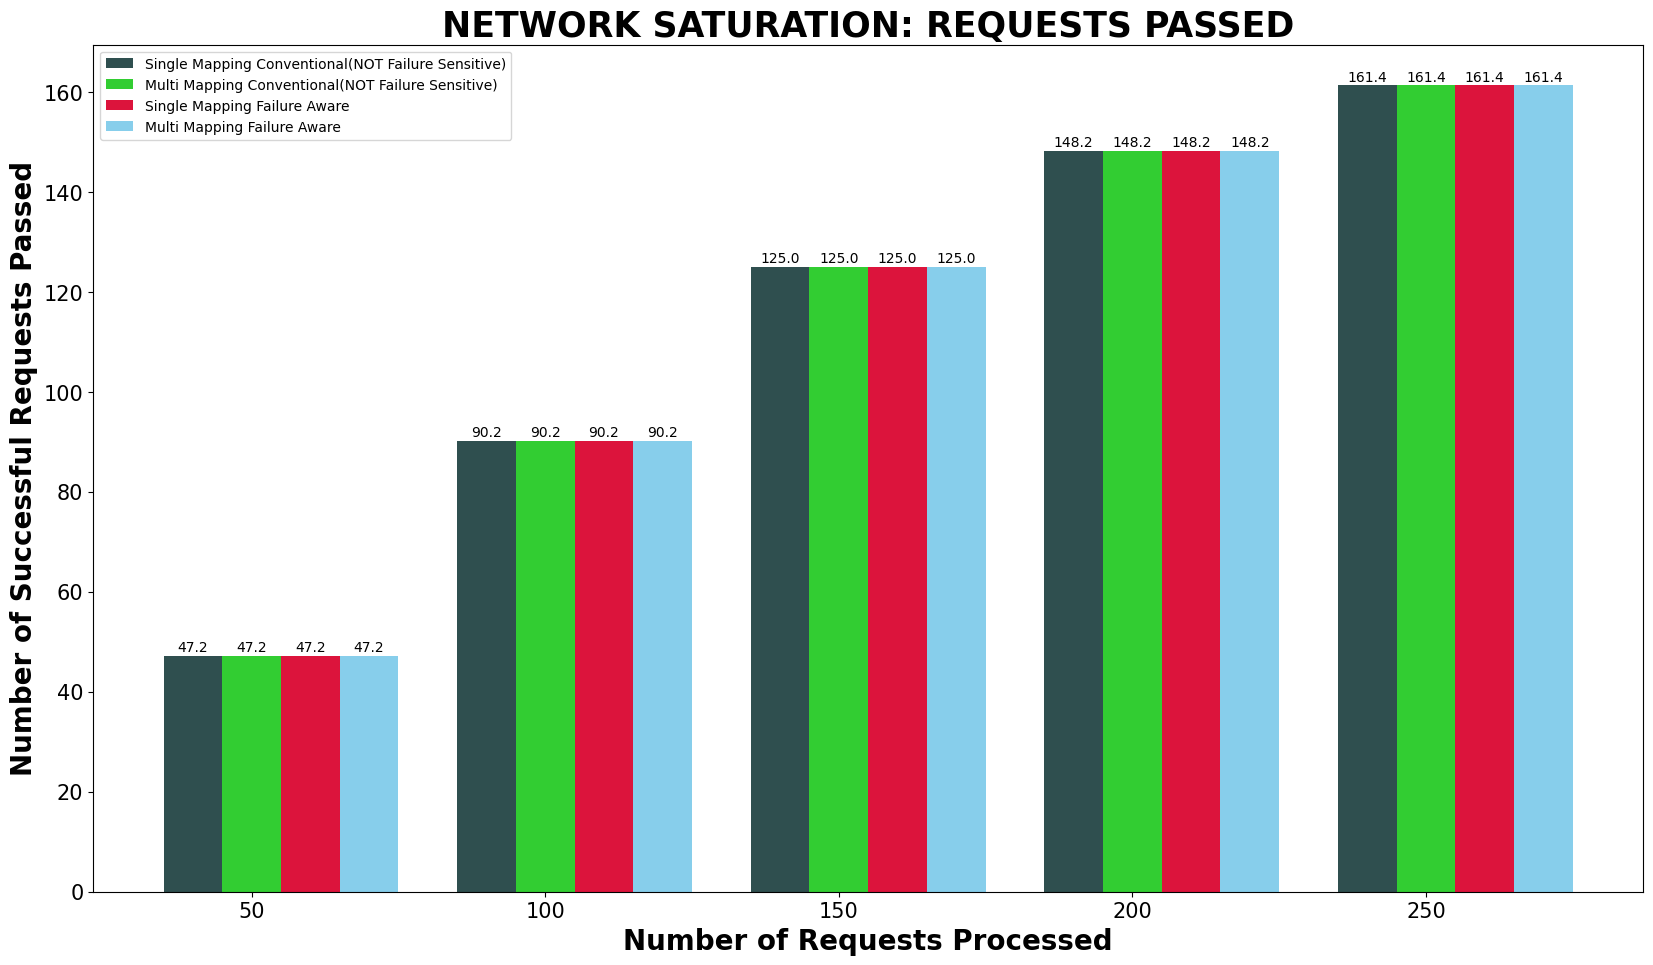
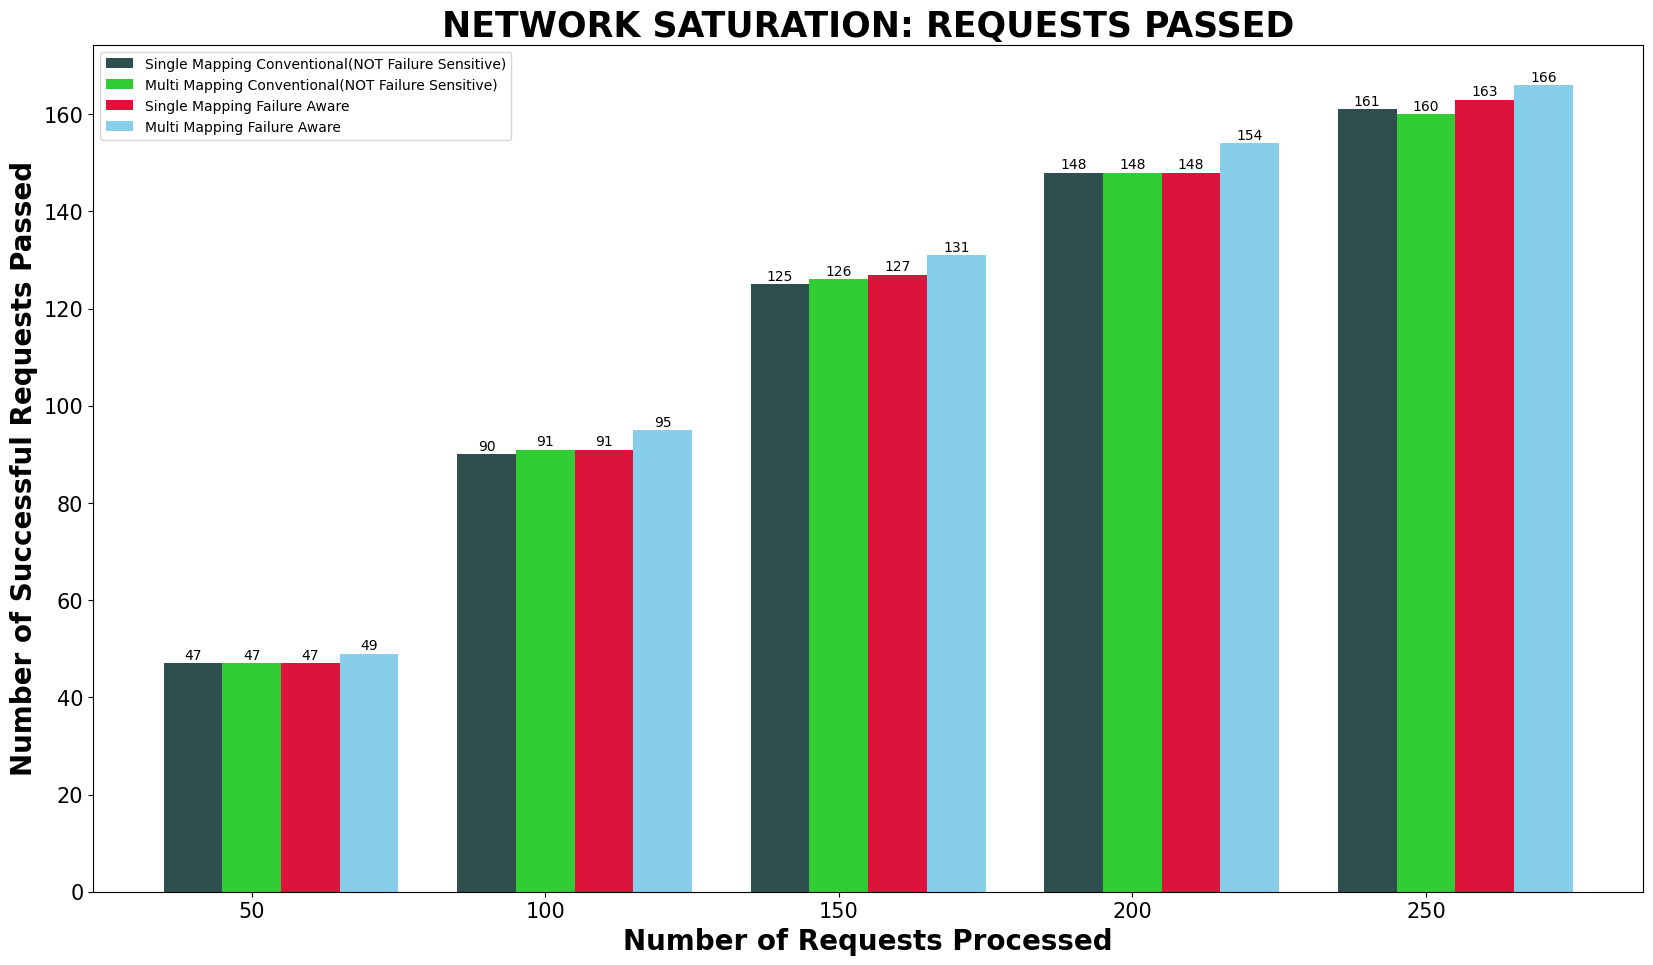
Made some adjustmetns and changes to the graphs. New ones are now uploaded and ready to go.

diff --git a/helper scripts/OutputGraphs.py b/helper scripts/OutputGraphs.py
@@ -53,23 +53,23 @@ def gather_all_data_averages(num_datasets, network_topology):
 
 
     for ds in range(num_datasets):
-        so_passed, so_fails, so_delays, so_costs = gather_data(os.path.join(outputFolder, f"D{ds+1}N{network_topology}_SINGLE_PATH_ONE_OUTPUT_DATA_{CREATE_NUM_REQUESTS}_RANDOM.csv"))
+        so_passed, so_fails, so_delays, so_costs = gather_data(os.path.join(outputFolder, f"D{ds + 1}N{network_topology}_SINGLE_PATH_ONE_OUTPUT_DATA_{CREATE_NUM_REQUESTS}_RANDOM.csv"))
         st_passed, st_fails, st_delays, st_costs = gather_data(os.path.join(outputFolder, f"D{ds + 1}N{network_topology}_SINGLE_PATH_TWO_OUTPUT_DATA_{CREATE_NUM_REQUESTS}_RANDOM.csv"))
         mo_passed, mo_fails, mo_delays, mo_costs = gather_data(os.path.join(outputFolder, f"D{ds + 1}N{network_topology}_MULTI_PATH_ONE_OUTPUT_DATA_{CREATE_NUM_REQUESTS}_RANDOM.csv"))
         mt_passed, mt_fails, mt_delays, mt_costs = gather_data(os.path.join(outputFolder, f"D{ds + 1}N{network_topology}_MULTI_PATH_TWO_OUTPUT_DATA_{CREATE_NUM_REQUESTS}_RANDOM.csv"))
 
         global_success_so.append(so_passed)
-        global_success_st.append(so_passed)
+        global_success_st.append(st_passed)
         global_success_mo.append(mo_passed)
         global_success_mt.append(mt_passed)
 
         global_fails_so.append(so_fails)
-        global_fails_st.append(so_fails)
+        global_fails_st.append(st_fails)
         global_fails_mo.append(mo_fails)
         global_fails_mt.append(mt_fails)
 
         global_delays_so.append(so_delays)
-        global_delays_st.append(so_delays)
+        global_delays_st.append(st_delays)
         global_delays_mo.append(mo_delays)
         global_delays_mt.append(mt_delays)
 
@@ -79,10 +79,10 @@ def gather_all_data_averages(num_datasets, network_topology):
         global_costs_mt.append(mt_costs)
 
     for x in range(5):
-        universal_success_so.append(sum(i[x] for i in global_success_so) / 5)
-        universal_success_st.append(sum(i[x] for i in global_success_so) / 5)
-        universal_success_mo.append(sum(i[x] for i in global_success_so) / 5)
-        universal_success_mt.append(sum(i[x] for i in global_success_so) / 5)
+        universal_success_so.append(round(sum(i[x] for i in global_success_so) / 5))
+        universal_success_st.append(round(sum(i[x] for i in global_success_st) / 5))
+        universal_success_mo.append(round(sum(i[x] for i in global_success_mo) / 5))
+        universal_success_mt.append(round(sum(i[x] for i in global_success_mt) / 5))
 
         universal_fails_so.append(sum(i[x] for i in global_fails_so) / 5)
         universal_fails_st.append(sum(i[x] for i in global_fails_st) / 5)
